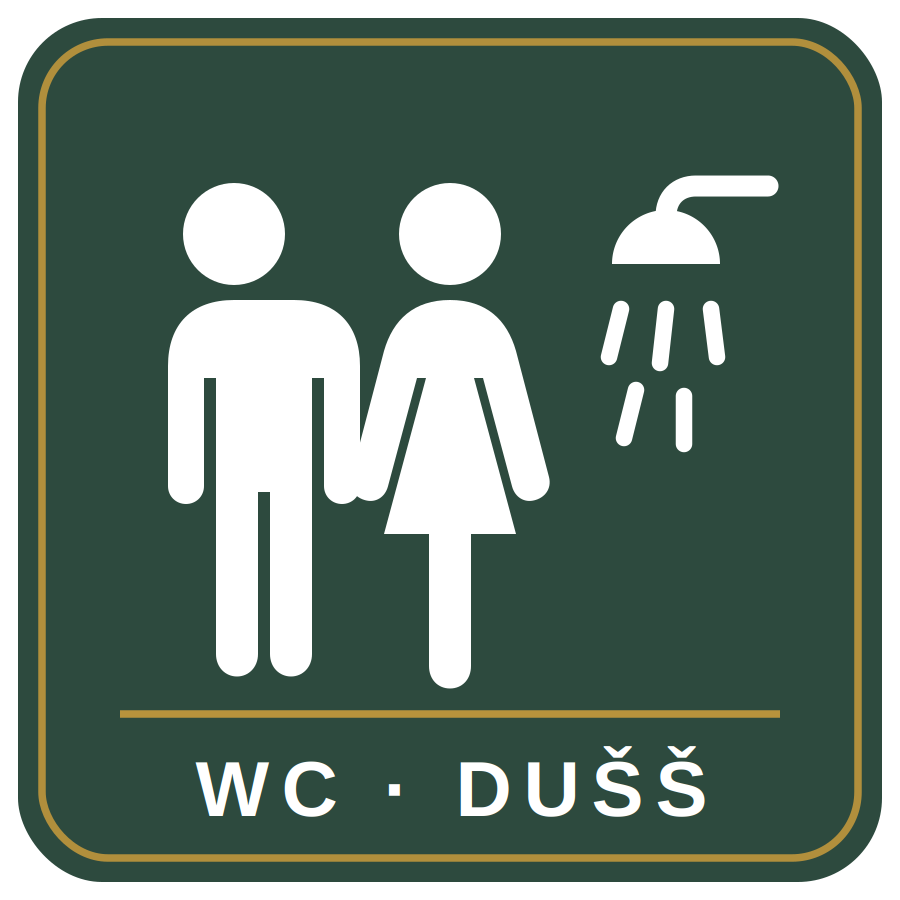
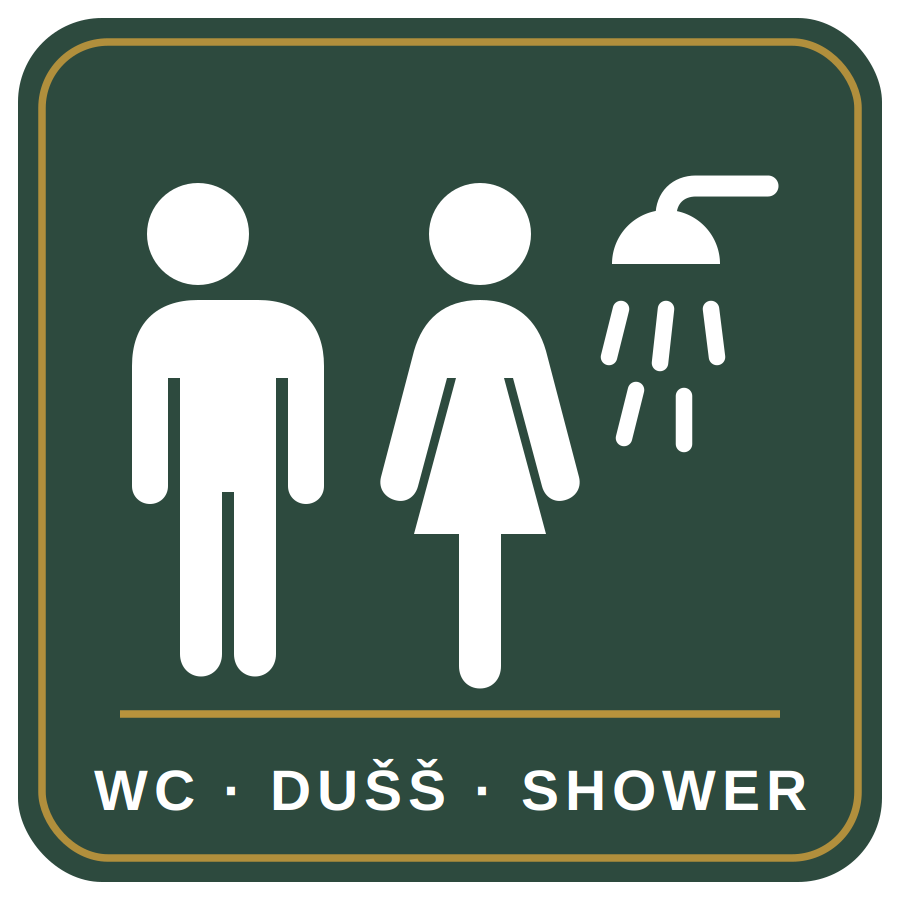
WC sign: separate figures, add English text (WC · DUŠŠ · SHOWER)
https://claude.ai/code/session_01YBnqtAUjjZPjfyEXVoMAyV

Changed region(s): [[0.1244, 0.1867, 0.6533, 0.7778], [0.0933, 0.8089, 0.9022, 0.9333], [0.4667, 0.5911, 0.56, 0.7778]]

diff --git a/make_wc_sign.py b/make_wc_sign.py
@@ -19,7 +19,7 @@ def build_svg(filename):
         stroke="{GOLD}" stroke-width="2.5" opacity="0.85"/>
 
   <!-- ══ Mees (vasakul) ══ -->
-  <g fill="{WHITE}">
+  <g fill="{WHITE}" transform="translate(-12,0)">
     <!-- pea -->
     <circle cx="78" cy="78" r="17"/>
     <!-- keha -->
@@ -34,7 +34,7 @@ def build_svg(filename):
   </g>
 
   <!-- ══ Naine (keskel) ══ -->
-  <g fill="{WHITE}">
+  <g fill="{WHITE}" transform="translate(10,0)">
     <!-- pea -->
     <circle cx="150" cy="78" r="17"/>
     <!-- keha + seelik -->
@@ -67,10 +67,10 @@ def build_svg(filename):
   <!-- Kuldne eraldusjoon -->
   <line x1="40" y1="238" x2="260" y2="238" stroke="{GOLD}" stroke-width="2.5" opacity="0.9"/>
 
-  <!-- Tekst: WC · DUŠŠ -->
-  <text x="150" y="272" text-anchor="middle"
-        font-family="Helvetica, Arial, sans-serif" font-size="26" font-weight="bold"
-        letter-spacing="4" fill="{WHITE}">WC · DU&#352;&#352;</text>
+  <!-- Tekst: WC · DUŠŠ · SHOWER -->
+  <text x="150" y="270" text-anchor="middle"
+        font-family="Helvetica, Arial, sans-serif" font-size="19" font-weight="bold"
+        letter-spacing="2" fill="{WHITE}">WC · DU&#352;&#352; · SHOWER</text>
 </svg>'''
     with open(filename, 'w') as f:
         f.write(svg)
